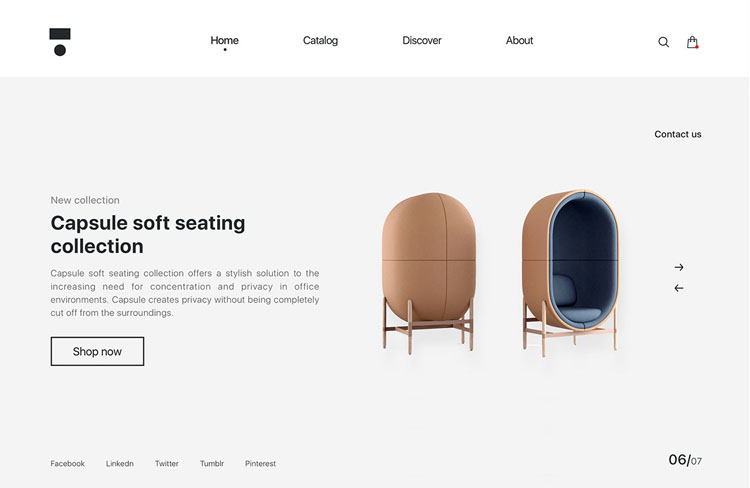
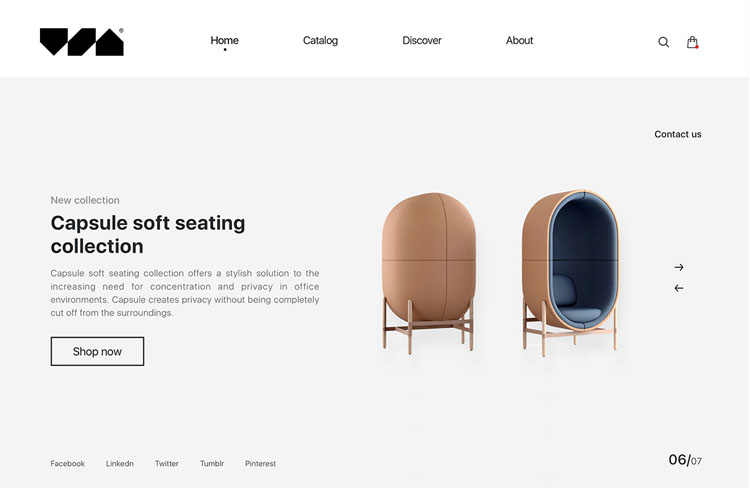
czx

Changed region(s): [[0.0307, 0.0307, 0.184, 0.123]]

diff --git a/ss2/www.squarespace.com/index6.html b/ss2/www.squarespace.com/index6.html
@@ -1998,7 +1998,7 @@ beautiful website. Domains, eCommerce, hosting, galleries, analytics, and
             <div class="footer-brand" style="">
                 <a class="footer-logo-link">
                     <div class="footer-logo-full">
-                        <img src="new/slogan3.png" class="squarespace-full is-fill notranslate" width="148px" height="40px">
+                        <img src="new/slogan2.png" class="squarespace-full is-fill notranslate" width="148px" height="40px">
                     </div>
                     <div class="footer-logo-mark" style="display: none;">
                         <img src="new/slogan2.png" class="squarespace-full is-fill notranslate" width="148px" height="40px">

diff --git a/ss2/www.squarespace.com/new/side-by-side-full-bleedb07a.css b/ss2/www.squarespace.com/new/side-by-side-full-bleedb07a.css
@@ -364,5 +364,5 @@
 }
 
 .changecolor{
-	background-color: #e38852;
+	background-color: #ebb696;
 }
